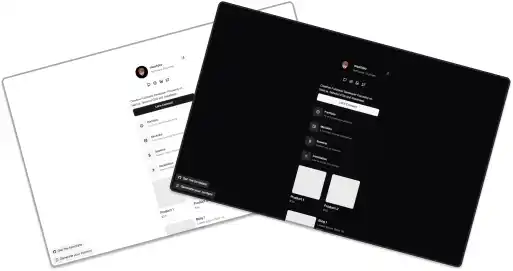
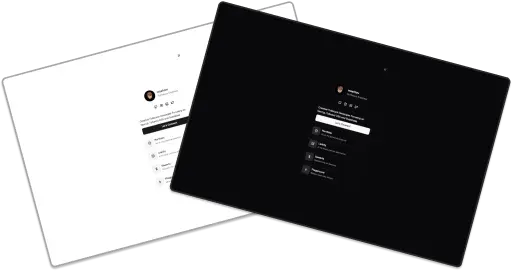
feat: update

diff --git a/components/section/chat-section.tsx b/components/section/chat-section.tsx
@@ -11,7 +11,7 @@ const container = {
   show: {
     opacity: 1,
     transition: {
-      staggerChildren: 0.3,
+      staggerChildren: 0.5,
       ease: "easeInOut",
     },
   },
@@ -20,6 +20,17 @@ const container = {
 const item = {
   hidden: { opacity: 0, y: 10, scale: 0.9 },
   show: { opacity: 1, y: 0, scale: 1 },
+};
+
+const chat = {
+  hidden: { opacity: 0 },
+  show: {
+    opacity: 1,
+    transition: {
+      staggerChildren: 0.3,
+      ease: "easeInOut",
+    },
+  },
 };
 
 const ChatSection = () => {
@@ -35,13 +46,8 @@ const ChatSection = () => {
       className="max-w-2xl flex flex-col gap-y-4 items-start w-full md:p-4"
     >
       {/* Avatar and First Chat */}
-      <motion.div variants={item} className="flex items-end gap-x-4 w-full">
-        <motion.div
-          initial={{ opacity: 0 }}
-          animate={{ opacity: 1 }}
-          transition={{ duration: 0.8, ease: "easeInOut" }}
-          className="relative"
-        >
+      <motion.div variants={chat} className="flex items-end gap-x-4 w-full">
+        <motion.div variants={item} className="relative">
           <Avatar className="border overflow-hidden">
             <AvatarImage src="./ava.png" alt="Avatar" />
             <AvatarFallback>CN</AvatarFallback>
@@ -51,26 +57,35 @@ const ChatSection = () => {
           <div className="w-2 h-2 rounded-full bg-green-500 absolute top-0.5 right-0.5 border" />
         </motion.div>
         <motion.div
-          initial={{ opacity: 0 }}
-          animate={{ opacity: 1 }}
-          transition={{ duration: 0.8, ease: "easeInOut" }}
+          variants={item}
           className="flex px-6 py-3 bg-accent rounded-3xl rounded-bl-md border"
         >
-          <p className="text-accent-foreground text-sm">Hi there, I'm Salman.</p>
+          <p className="text-accent-foreground text-sm">
+            Hi there, I'm Salman.
+          </p>
         </motion.div>
       </motion.div>
 
       {/* Second Chat */}
+      <motion.div variants={item} className="flex w-full">
+        <div className="flex px-6 py-3 bg-accent rounded-3xl rounded-bl-md border">
+          <p className="text-accent-foreground text-sm">
+            A creative developer since 2020. I'm passionate about crafting
+            beautiful interface designs and attention to detail.
+          </p>
+        </div>
+      </motion.div>
+
+      {/* Third Chat */}
       <motion.div variants={item} className="flex flex-col gap-y-2">
         <div className="flex px-6 py-3 bg-accent rounded-3xl rounded-bl-md border">
           <p className="text-accent-foreground text-sm">
-            Creative developer with more than 2 years of experience in web
-            development. I mainly create magic with Next.js, Tailwind, and
-            Typescript.
+            Now I'm creating my own freelancing business, exploring methods, and
+            leveling up both my design and programming skills.
           </p>
         </div>
 
-        <ChatFooter />
+        <ChatFooter time={4}/>
       </motion.div>
     </motion.div>
   );

diff --git a/components/section/project-section.tsx b/components/section/project-section.tsx
@@ -13,7 +13,19 @@ const container = {
   show: {
     opacity: 1,
     transition: {
-      staggerChildren: 0.4,
+      staggerChildren: 0.3,
+      ease: "easeInOut",
+    },
+  },
+};
+
+const project = {
+  hidden: { opacity: 0 },
+  show: {
+    opacity: 1,
+    transition: {
+      delayChildren: 0.6,
+      staggerChildren: 0.3,
       ease: "easeInOut",
     },
   },
@@ -38,12 +50,7 @@ const ProjectSection = () => {
     >
       {/* Avatar and First Chat */}
       <div className="flex items-end gap-x-4 w-full">
-        <motion.div
-          initial={{ opacity: 0 }}
-          animate={{ opacity: 1 }}
-          transition={{ duration: 1, ease: "easeInOut" }}
-          className="relative"
-        >
+        <motion.div variants={item} className="relative">
           <Avatar className="border overflow-hidden">
             <AvatarImage src="./ava.png" alt="Avatar" />
             <AvatarFallback>CN</AvatarFallback>
@@ -52,10 +59,9 @@ const ProjectSection = () => {
           {/* Status */}
           <div className="w-2 h-2 rounded-full bg-green-500 absolute top-0.5 right-0.5 border" />
         </motion.div>
+
         <motion.div
-          initial={{ opacity: 0 }}
-          animate={{ opacity: 1 }}
-          transition={{ duration: 1, ease: "easeInOut" }}
+          variants={item}
           className="flex px-6 py-3 bg-accent rounded-3xl rounded-bl-md border"
         >
           <p className="text-accent-foreground text-sm">
@@ -66,9 +72,10 @@ const ProjectSection = () => {
 
       {/* Second Chat */}
       <motion.div
-        variants={container}
+        variants={project}
         initial="hidden"
         animate={inView ? "show" : "hidden"}
+        transition={{ delay: 0.3 }}
         className="w-full grid sm:grid-cols-2 gap-4"
       >
         {projectItems.map((items, index) => (

diff --git a/components/shared/chat-footer.tsx b/components/shared/chat-footer.tsx
@@ -1,7 +1,13 @@
 import { cn } from "@/lib/utils";
 import { CheckCheck, Heart, ThumbsDown } from "lucide-react";
 
-const ChatFooter = ({ className }: { className?: string }) => {
+const ChatFooter = ({
+  className,
+  time,
+}: {
+  className?: string;
+  time: number;
+}) => {
   return (
     <div
       className={cn(
@@ -10,18 +16,18 @@ const ChatFooter = ({ className }: { className?: string }) => {
       )}
     >
       <div className="flex gap-x-1 items-center">
-        <p className="text-muted-foreground text-xs md:text-sm">4m ago</p>
+        <p className="text-muted-foreground text-xs md:text-sm">{time}m ago</p>
         <CheckCheck className="text-blue-500 md:w-3 md:h-3 h-2.5 w-2.5" />
       </div>
 
       <div className="flex gap-x-4 items-center">
-        <div className="flex gap-x-2 items-center">
-          <ThumbsDown className="text-muted-foreground md:w-3 md:h-3 h-2.5 w-2.5" />
+        <div className="flex gap-x-2 items-center group/report">
+          <ThumbsDown className="text-muted-foreground md:w-3 md:h-3 h-2.5 w-2.5 group-hover/report:text-blue-500 anim" />
           <p className="text-muted-foreground text-xs md:text-sm">Report</p>
         </div>
 
-        <div className="flex gap-x-2 items-center">
-          <Heart className="text-muted-foreground md:w-3 md:h-3 h-2.5 w-2.5" />
+        <div className="flex gap-x-2 items-center group/favorite">
+          <Heart className="text-muted-foreground md:w-3 md:h-3 h-2.5 w-2.5 group-hover/favorite:text-red-400 group-hover/favorite:fill-red-400 anim" />
           <p className="text-muted-foreground text-xs md:text-sm">Favorite</p>
         </div>
       </div>

diff --git a/components/section/cta-section.tsx b/components/section/cta-section.tsx
@@ -36,7 +36,7 @@ const ActionSection = () => {
       variants={container}
       initial="hidden"
       animate={inView ? "show" : "hidden"}
-      className="max-w-2xl flex flex-col gap-y-4 items-start w-full md:p-4"
+      className="max-w-2xl flex flex-col gap-y-4 items-start w-full md:p-4 group"
     >
       {/* Avatar and First Chat */}
       <motion.div variants={item} className="flex items-end gap-x-4 w-full">
@@ -70,9 +70,9 @@ const ActionSection = () => {
       <motion.div variants={item} className="flex flex-col w-full gap-y-2">
         <Link
           href={"/"}
-          className="flex items-center group justify-between pl-6 pr-1 py-1 bg-background hover:bg-green-200 rounded-tl-3xl rounded-e-[50px] rounded-bl-md border anim hover:border-green-500 w-full"
+          className="flex items-center justify-between pl-6 pr-1 py-1 bg-background group-hover:bg-green-200 rounded-tl-3xl rounded-e-[50px] rounded-bl-md border anim group-hover:border-green-500 w-full"
         >
-          <p className="text-muted-foreground group-hover:text-green-700 font-medium group-hover:text-primary anim text-sm">
+          <p className="text-muted-foreground group-hover:text-green-700 font-medium anim text-sm">
             Get in touch.
           </p>
           <div className="h-auto w-fit px-6 py-2.5 bg-[#878787] group-hover:bg-green-500 anim rounded-full">
@@ -83,7 +83,7 @@ const ActionSection = () => {
           </div>
         </Link>
 
-        <ChatFooter />
+        <ChatFooter time={1} />
       </motion.div>
     </motion.div>
   );

diff --git a/components/nav/footer.tsx b/components/nav/footer.tsx
@@ -73,9 +73,9 @@ const Footer = () => {
           </p>
 
           <div className="flex flex-col gap-y-3 md:ml-auto">
-            <h4 className="text-primary-foreground font-semibold text-center md:text-right font-mono uppercase">
+            <h2 className="text-primary-foreground font-semibold text-center md:text-right font-mono uppercase">
               Actions
-            </h4>
+            </h2>
             <div className="flex flex-col gap-y-1 text-primary-foreground/80 text-sm font-mono text-center md:text-right">
               <p>Back to top</p>
               <p>Copy my email</p>
@@ -83,9 +83,9 @@ const Footer = () => {
           </div>
 
           <div className="flex flex-col gap-y-3">
-            <h4 className="text-primary-foreground font-semibold text-center md:text-right font-mono uppercase">
+            <h2 className="text-primary-foreground font-semibold text-center md:text-right font-mono uppercase">
               Credits
-            </h4>
+            </h2>
             <div className="flex flex-col gap-y-1 text-primary-foreground/80 text-sm font-mono text-center md:text-right">
               <p>Darius Dan</p>
               <p>Transhumans</p>

diff --git a/components/nav/navbar.tsx b/components/nav/navbar.tsx
@@ -9,14 +9,14 @@ const Navbar = () => {
   return (
     <header className="w-full flex justify-center px-4 sticky top-0 z-50">
       <div className="flex items-center w-full justify-between gap-x-4 max-w-2xl py-6 relative bg-background">
-        <motion.h1
+        <motion.span
           initial={{ opacity: 0, y: -50 }}
           animate={{ opacity: 1, y: 0 }}
-          transition={{ duration: 0.4, ease: "easeInOut" }}
+          transition={{ duration: 0.3, ease: "easeInOut" }}
           className="text-2xl font-bold font-mono"
         >
           Moon
-        </motion.h1>
+        </motion.span>
         <MenuButton />
 
         <div className="w-full h-12 absolute bg-gradient-to-b from-background to-transparent -bottom-12"/>

diff --git a/components/nav/menu-button.tsx b/components/nav/menu-button.tsx
@@ -40,7 +40,7 @@ const MenuButton = () => {
         ref={buttonRef}
         aria-label="Menu Button"
         onClick={() => setOpen(!open)}
-        className="flex group flex-col z-10 bg-primary h-10 aspect-square anim ease-linear justify-center items-end gap-y-1 relative rounded-xl"
+        className="flex group flex-col z-20 bg-primary h-10 aspect-square anim ease-linear justify-center items-end gap-y-1 relative rounded-xl"
       >
         <div
           className={`w-[22px] anim ease-in-out rounded-full bg-background absolute snap-center top-1/2 left-1/2 -translate-x-1/2 ${
